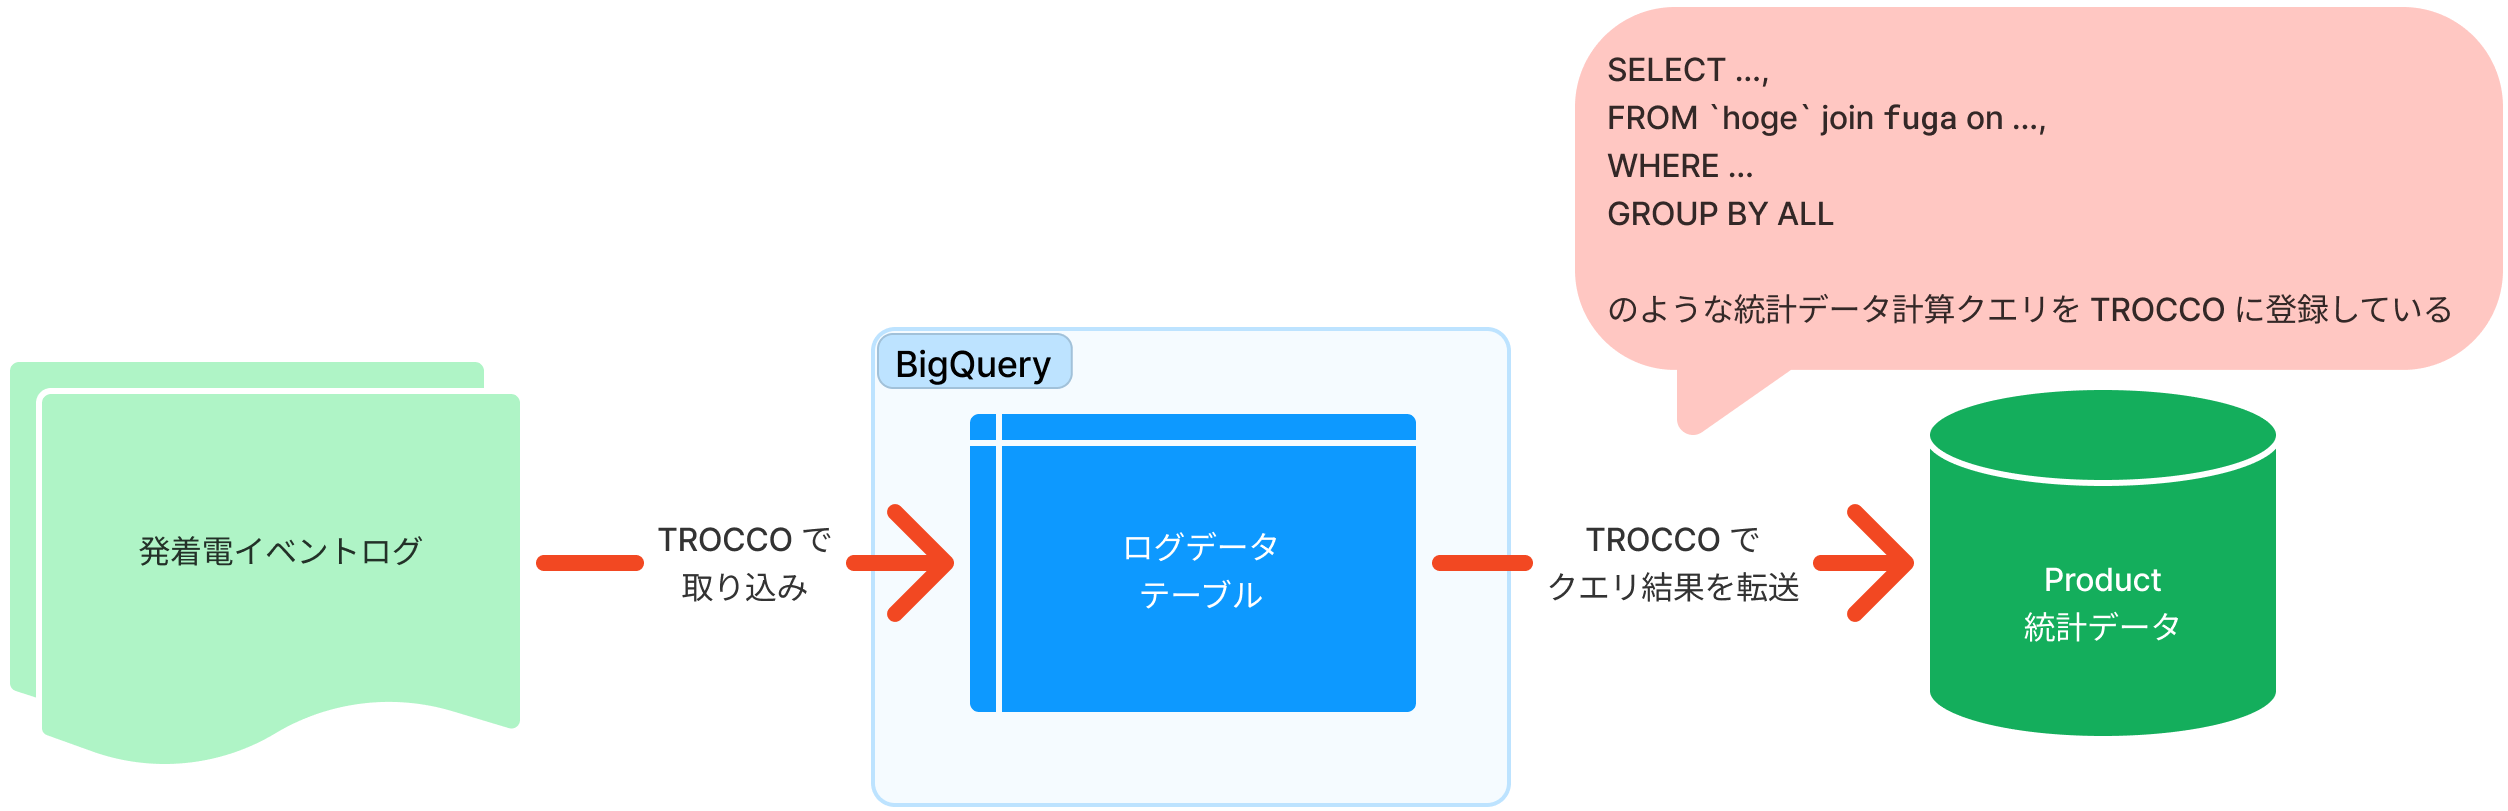
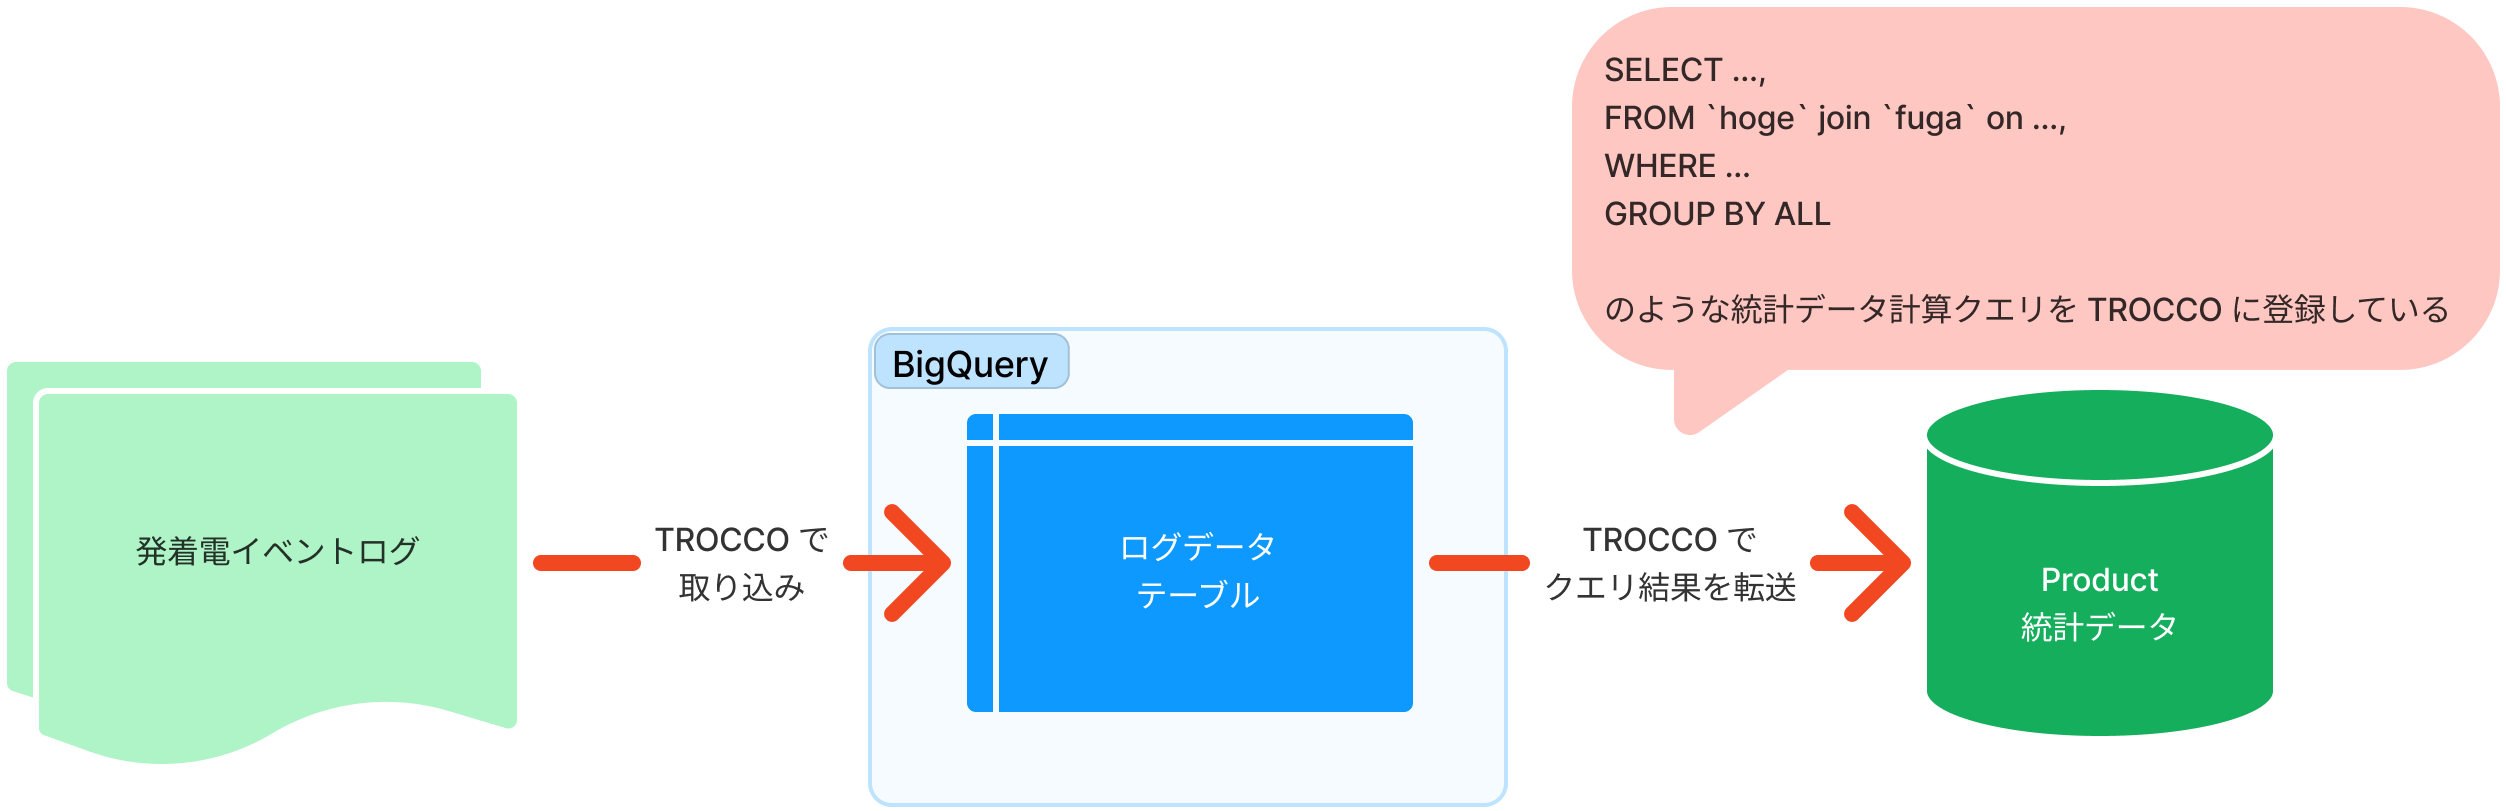
:books: 微修正

diff --git a/articles/ivry-dbt-into-trocco-workflow-20241119.md b/articles/ivry-dbt-into-trocco-workflow-20241119.md
@@ -11,7 +11,7 @@ IVRy ではデータモデルの管理のために [dbt Core](https://github.com
 
 # プロダクトについて
 
-[IVRy](https://ivry.jp) は、電話業務を効率化する対話型音声 AI SaaS です。
+[IVRy](https://ivry.jp) は電話業務を効率化する対話型音声 AI SaaS です。
 
 https://ivry.jp
 
@@ -29,7 +29,7 @@ https://ivry.jp
 
 ## dbt 導入前 - 課題
 
-IVRy では解析用の各種データを BigQuery に集約しており、統計情報の元となる発着電イベントログも BigQuery に取り込んでいます。BigQuery 上の発着電イベントログから統計データを計算するクエリを実行し、その結果を定期的にプロダクトに転送するデータパイプラインを [TROCCO](https://trocco.io) を使って実現しています。
+IVRy では解析用の各種データを BigQuery に集約しており、統計情報の元となる発着電イベントログも BigQuery に取り込んでいます。BigQuery 上の発着電イベントログから統計データを計算し、その結果を定期的にプロダクトに転送するデータパイプラインを [TROCCO](https://trocco.io) を使って実現しています。
 
 ![](/images/ivry-dbt-into-trocco-workflow-20241119/before.png)
 *データの流れのイメージ（Before）*
